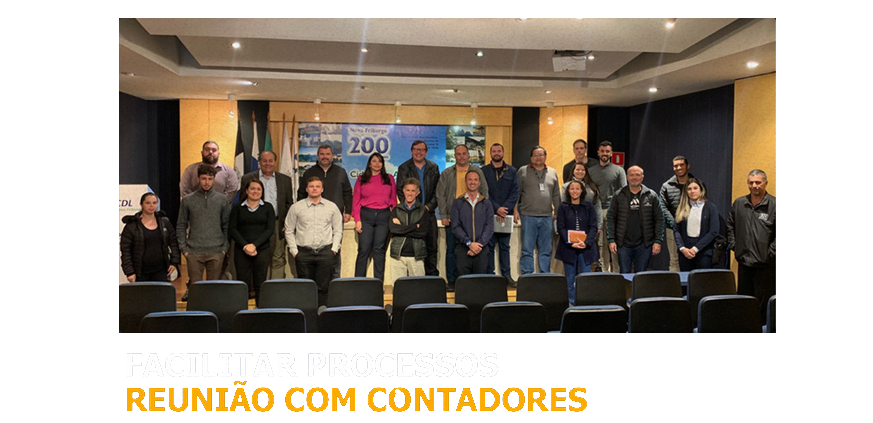
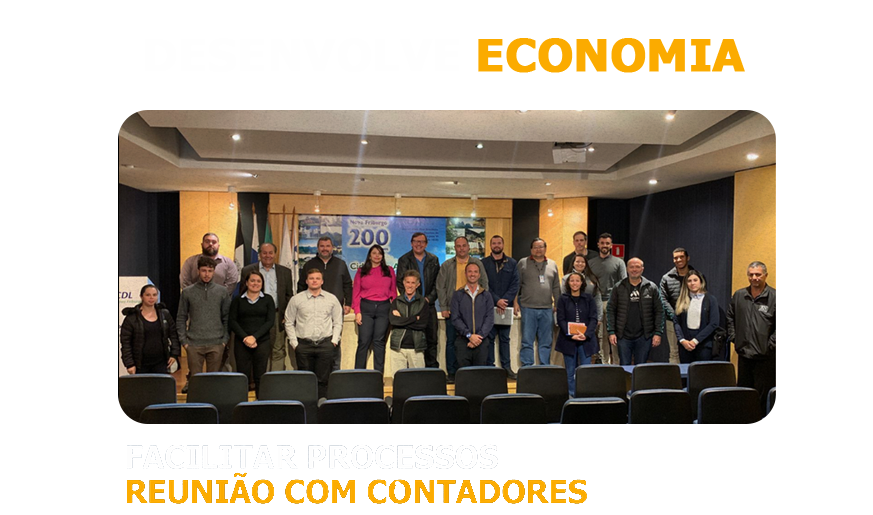
07.11.23.1.ED

diff --git a/desenvolve_nf/templates/desenvolve_nf/index.html b/desenvolve_nf/templates/desenvolve_nf/index.html
@@ -408,23 +408,19 @@
         <div class="owl-carousel owl-theme pt-4">
           <div class="item d-flex">
             <div class=" d-flex flex-column ps-5 pe-3">
-              <img class="mx-auto mt-auto" src="/static/images/desenvolve_economia.png" alt="" style="width: 336px;">
+              <!-- <img class="mx-auto mt-auto" src="/static/images/desenvolve_economia.png" alt="" style="width: 336px;"> -->
                 
-              <img style="border-radius: 30px;" src="/static/images/desenvolve economia.png" class="img-fluid " alt="">
+              <img src="/static/images/desenvolve economia.png" class="img-fluid " alt="">
             </div>            
           </div>
           <div class="item d-flex">
             <div class=" d-flex flex-column ps-5 pe-3">
-              <img class="mx-auto mt-auto" src="/static/images/desenvolve_tecnologia.png" alt="" style="max-width: 336px;">
-                
-              <img style="border-radius: 30px;" src="/static/images/desenvolve empreendorismo.png" class="img-fluid " alt="">
+              <img src="/static/images/desenvolve tech.png" class="img-fluid " alt="">
             </div>            
           </div>
           <div class="item d-flex">
             <div class=" d-flex flex-column ps-5 pe-3">
-              <img class="mx-auto mt-auto" src="/static/images/desenvolve_economia.png" alt="" style="max-width: 336px;">
-                
-              <img style="border-radius: 30px;" src="/static/images/desenvolve capacitacao.png" class="img-fluid " alt="">
+              <img style="border-radius: 30px;" src="/static/images/desenvolve financas.png" class="img-fluid " alt="">
             </div>            
           </div>
           <!-- <div class="item d-flex">
@@ -562,15 +558,15 @@
       <div class="row  pt-5 pb-4 mobile-flex-column footer-sup text-light">
         <div class="col d-flex flex-column justify-content-center">
           <img class="img-fluid logo m-auto" src="/static/images/logo_desenvolve_2.png" alt="">
-          <p class="mx-auto mt-4 text-f">SECRETARIA MUNICIPAL DE CULTURA DE NOVA FRIBURGO
-            R. Farinha Filho, 50 - Centro, Nova Friburgo - RJ, 28610-175 <br>
+          <p class="mx-auto mt-4 text-f">Secretaria Municipal de Ciência, Tecnologia, Inovação e Educação Profissionalizante e Superior
+            Av. Alberto Braune, 223 - Centro, Nova Friburgo - RJ, 28613-001 <br>
             09:00 às 17:00 de Seg. à Sex. <br>
-            (22) 2521-1558</p>
+            (22) 2525-9145</p>
           <p class="mx-auto mt-4 text-light">
-            <a class="text-light" target="_blank" href="https://www.facebook.com/desenvolvenf//">
+            <a class="text-light" target="_blank" href="https://www.facebook.com/desenvolvenf/">
               <i class="fa-brands fa-facebook me-4 mb-2"></i>
             </a>
-            <a class="text-light" target="_blank" href="https://www.instagram.com/desenvolvenf//">
+            <a class="text-light" target="_blank" href="https://www.instagram.com/desenvolvenf/">
               <i class="fa-brands fa-instagram me-4 mb-2"></i>
             </a>
           </p>
